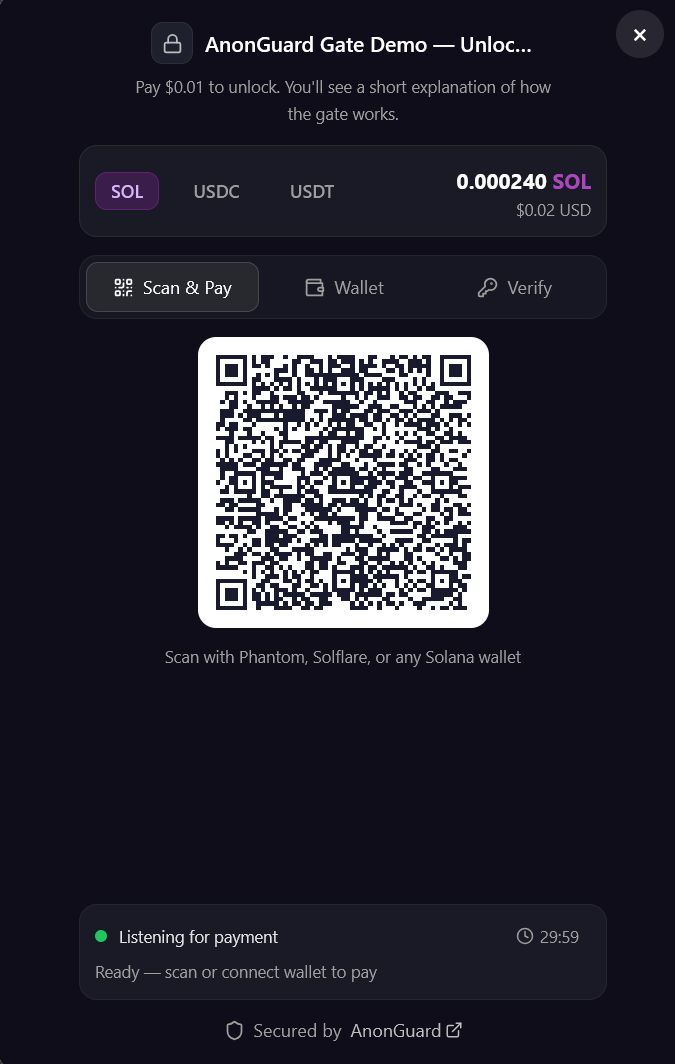
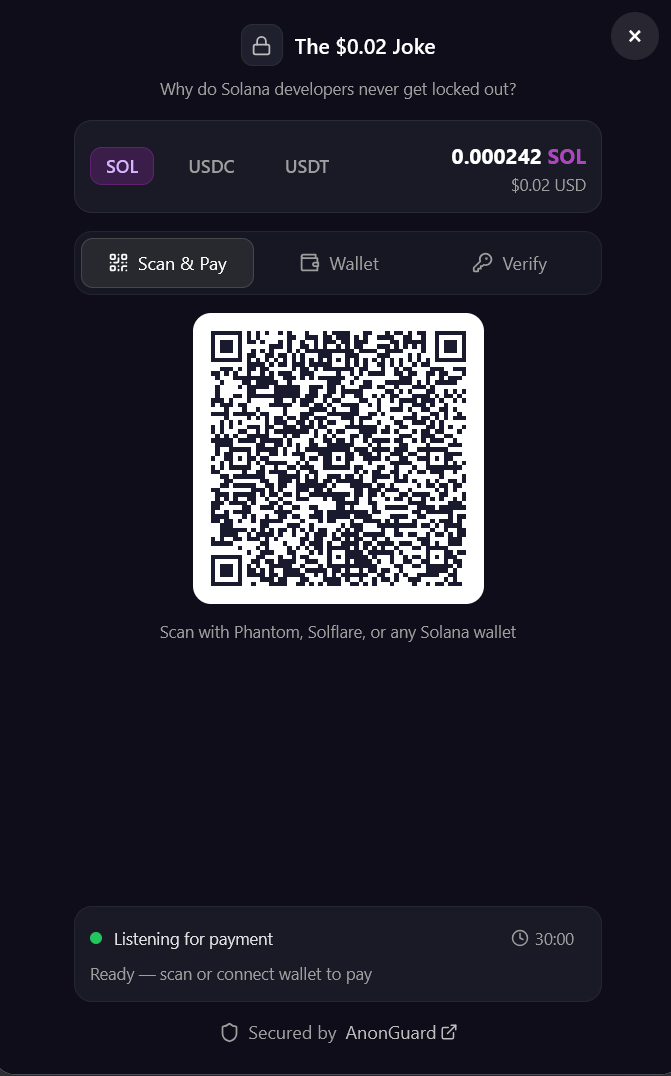
Update screenshots and hero image

diff --git a/README.md b/README.md
@@ -3,7 +3,7 @@
 > Ever thought you could sell a joke? Now you can.
 
 <p align="center">
-  <img src="images/hero.svg" alt="Sell a joke. Sell anything." width="720">
+  <img src="images/hero.png" alt="Sell a joke. Sell anything." width="720">
 </p>
 
 Accept Solana payments for any content — a joke, a recipe, a secret, a full course. Two lines of HTML. No backend work for the creator.
